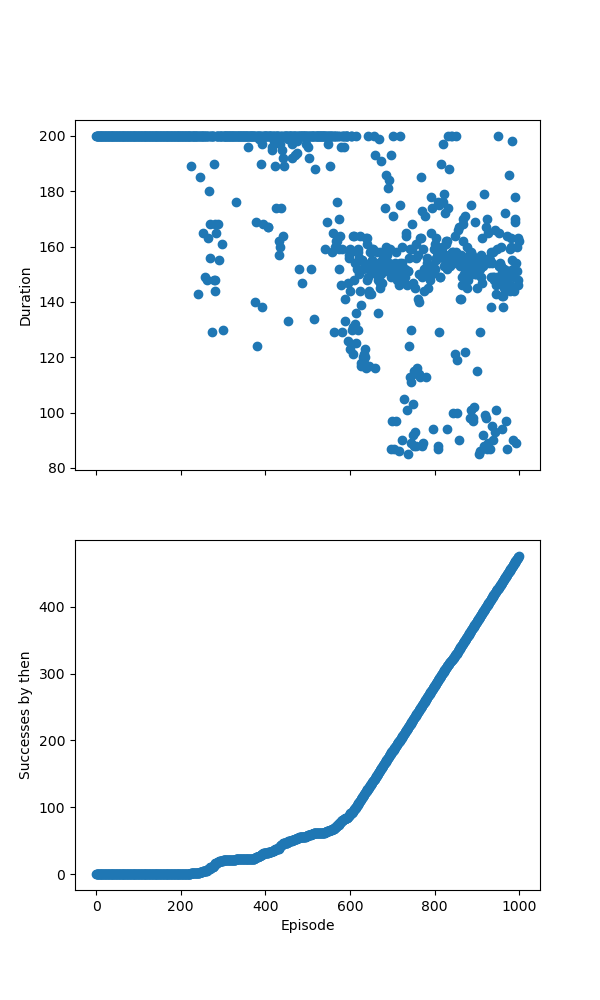
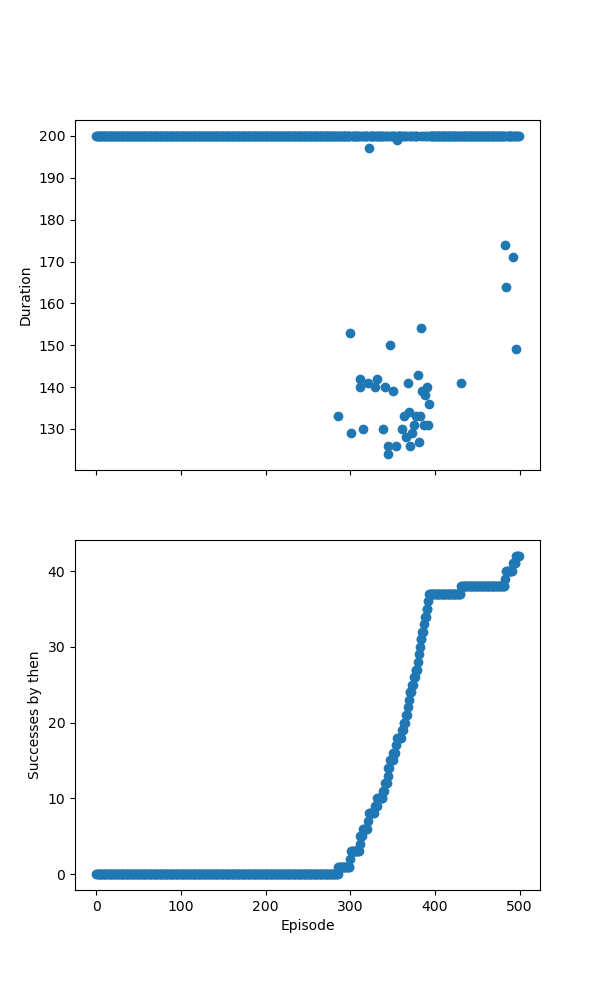
Put on pause the use of RND reward for the buffer.

diff --git a/code/agents.py b/code/agents.py
@@ -13,6 +13,7 @@ class Agent(ABC):
 
     @abstractmethod
     def select_action(self, state):
+        # no access to the environment as there will be no illegal actions
         pass
 
     @abstractmethod
@@ -23,20 +24,17 @@ class Agent(ABC):
     def run_episode( self, env ):
         pass
 
-    def init_actions(self):
-        return [0,1,2] # we can move left, stay or move right
-
+    actions = [0,1,2] # we can move left, stay or move right (same across all agents)
+    full_ep_len = 200
 
 class RandomAgent(Agent):
     def __init__(self):
-        self.actions = self.init_actions()
         pass
 
     def observe(self, state, action, next_state, reward):
         pass
 
     def select_action(self, state): 
-        # no access to the environment as there will be no illegal actions
         return random.choice( self.actions )
 
     def update(self):
@@ -59,30 +57,27 @@ class RandomAgent(Agent):
 
 
 class DQNAgent(Agent) :
-    def __init__(self, epsilon=0.9, gamma=0.99, buffer_len=10000, batch_size=64, optimizer='adam', heuristic=False, pre_train_steps=0):
-        self.actions = self.init_actions()
-
-        self.eps_start = epsilon # will then decay exponentially to reach 0.05
+    def __init__(self, epsilon=0.9, gamma=0.99, buffer_len=50, batch_size=64, pre_train_steps=0):
+        self.eps_start = epsilon # will then decay exponentially to eps_end
         self.eps_end = 0.05 # asymptotic value for epsilon
-        self.eps_tau = 20000 # characteristic time for the decay
+        self.eps_tau = 100*self.full_ep_len # characteristic time for the decay
 
         self.gamma = gamma
-        self.buffer = ReplayBuffer(buffer_len)
+        self.buffer = ReplayBuffer(buffer_len*self.full_ep_len) # buffel_len in full episodes
         self.batch_size = batch_size
         self.iter = 0
 
         self.ep_loss = 0. # loss for the current episode
         self.ep_env_reward = 0. # reward for the current episode 
         self.ep_aux_reward = 0. # reward for the current episode 
-        self.heuristic = heuristic
 
         self.Qs = MLP( 2, len(self.actions) )
         self.target_Qs = MLP( 2, len(self.actions) )
         self.optimizer = torch.optim.Adam(self.Qs.parameters(), lr=1e-3)
         self.target_Qs.eval()
         self.target_Qs_update_freq = 2000 # frequency to update target (in GD steps)
-        self.pre_train_steps = pre_train_steps # number of batches on which to 
-        # train the RND network before starting the DQN training
+        self.pre_train_steps = pre_train_steps # number of GD steps on which to 
+        # train the auxiliary reward before starting the DQN training
     
     @abstractmethod
     def float_auxiliar_r(self, state, next_state):
@@ -140,7 +135,7 @@ class DQNAgent(Agent) :
         batch : mini-batch over which gradient is estimated
         '''
         target = batch[:,3] + self.gamma * torch.max( self.target_Qs(batch[:,4:]), dim=1 ).values
-        actions = batch[:,2].to( torch.int64 ) # to 
+        actions = batch[:,2].to( torch.int64 ) # to use as index 
         if huber:
             return self.huber_loss( self.Qs(batch[:,0:2])[range(self.batch_size),actions], target )
         return torch.mean( ( target - self.Qs(batch[:,0:2])[range(self.batch_size),actions] ) ** 2 )
@@ -165,8 +160,7 @@ class DQNAgent(Agent) :
         self.sub_update( batch )
 
         # train the Q-network once the RND network is good enough
-        if self.iter > self.buffer.len + self.pre_train_steps:
-            #batch_ = self.buffer.new_batch( self.batch_size )
+        if self.iter > self.buffer.len + self.pre_train_steps + 1:
             self.Qs.train()
             loss = self.loss_fn( batch )
             self.ep_loss += loss.item()
@@ -202,7 +196,7 @@ class DQNAgent(Agent) :
             self.observe(state, action, next_state, reward)
             if done and self.iter > self.buffer.len:
                 ep_loss, ep_env_reward, ep_aux_reward = self.update( done=done )
-                #ep_aux_reward += 100. # reward for reaching the goal, not added by 
+                ep_aux_reward += 100. # reward for reaching the goal, not added by 
             else : 
                 self.update( done=done )
 
@@ -211,7 +205,7 @@ class DQNAgent(Agent) :
         return count, ep_env_reward/count, ep_aux_reward/count, ep_loss # duration, normalised cumulated reward, loss
 
 class DQNAgentHeuristic(DQNAgent):
-    def __init__(self, degree=3, frac=1.0-1, epsilon=0.9, gamma=0.99, buffer_len=10000, batch_size=64, pre_train_steps=0):
+    def __init__(self, degree=3, frac=1.0-1, epsilon=0.9, gamma=0.99, buffer_len=50, batch_size=64, pre_train_steps=0):
         super().__init__(epsilon, gamma, buffer_len, batch_size, pre_train_steps)
         self.frac = frac
         self.degree = degree
@@ -238,7 +232,7 @@ class DQNAgentHeuristic(DQNAgent):
         return self.frac * a * ( (x-x_start) ** self.degree ) * is_on_right + (1-is_on_right) * 0. # if the agent is on the left, the reward is 0
 
 class DQNAgentRND(DQNAgent) :
-    def __init__(self, reward_factor=1.0, epsilon=0.9, gamma=0.99, buffer_len=10000, batch_size=64, pre_train_steps=1000):
+    def __init__(self, reward_factor=1.0, epsilon=0.9, gamma=0.99, buffer_len=50, batch_size=64, pre_train_steps=1000):
         super().__init__(epsilon, gamma, buffer_len, batch_size, pre_train_steps=pre_train_steps)
         self.RND = MLP( 2, 1 )
         self.RND_optimizer = torch.optim.Adam(self.RND.parameters(), lr=1e-3)
@@ -255,36 +249,27 @@ class DQNAgentRND(DQNAgent) :
         buffer and use them to initialise the reward mean and variance. We then also add the corresponding
         auxiliary rewards to the buffer (this makes sense right ??).
         '''
+        if self.train_index == self.pre_train_steps:
+            self.RND.eval()
+            buffer_reward = ( self.RND(self.buffer.values[:,4:]) - \
+                        self.RND_target(self.buffer.values[:,4:]) ) ** 2
+            self.reward_mean = torch.mean( buffer_reward )
+            self.reward_var = torch.var( buffer_reward ) 
+            
+            # the goal of this part was to add the auxiliary rewards to the buffer so 
+            # that the agent can learn from them. However, this led to an error.
+            # norm_reward = ( buffer_reward - self.reward_mean ) / torch.sqrt(self.reward_var)
+            # self.buffer.values[:,3] = self.buffer.values[:,3] + self.reward_factor * torch.clamp( norm_reward, -5, 5 ).reshape(-1)
+            # line above causes error as when calling backward(), the autodiff will notice that the variable changed value (as batch will have changed through the buffer)
+            #self.train_index += 1
+            #return
+
         self.RND.train()
         RND_loss = torch.mean( ( self.RND_target(batch[:,4:]) - self.RND(batch[:,4:]) ) **2 )
-        print('foo')
         RND_loss.backward()
         self.RND_optimizer.step()
         self.RND_optimizer.zero_grad()
         self.train_index += 1
-        # the error I have is usually due to calling backward() multiple times on the same graph
-        # here can't find the second call to backward() as it is not the one associated to the Q-network (tested it, we don't enter the if)
-
-        print(self.train_index)
-        if self.train_index == self.pre_train_steps:
-            self.RND.eval()
-            buffer_values = self.buffer.values
-            buffer_reward = ( self.RND(buffer_values[:,4:]) - \
-                        self.RND_target(buffer_values[:,4:]) ) ** 2
-            #buffer_reward = ( self.RND(self.buffer.values[:,4:]) - \
-            #            self.RND_target(self.buffer.values[:,4:]) ) ** 2
-            self.reward_mean = torch.mean( buffer_reward )
-            self.reward_var = torch.var( buffer_reward ) 
-            norm_reward = ( buffer_reward - self.reward_mean ) / torch.sqrt(self.reward_var)
-            # clamp the reward to avoid numerical issues : between -5 and 5
-            print('hey')
-            temp = buffer_values[:,3] + self.reward_factor * torch.clamp( norm_reward, -5, 5 ).reshape(-1)
-            
-            self.buffer.values[:,3] = temp.clone() # this modifies the batch, is this problematic ??
-            #self.buffer.values[:,3] += self.reward_factor * torch.clamp( norm_reward, -5, 5 ).reshape(-1)
-
-
-
 
     def float_auxiliar_r(self, state, next_state):
         if self.train_index < self.pre_train_steps:
@@ -292,9 +277,10 @@ class DQNAgentRND(DQNAgent) :
         next_state_tensor = torch.tensor(next_state)
         self.RND.eval()
         reward = ( self.RND(next_state_tensor) - self.RND_target(next_state_tensor) ) ** 2
-        self.reward_mean = (self.reward_mean * self.train_index + reward) / (self.train_index + 1)
-        self.reward_var = (self.reward_var * self.train_index + (reward - self.reward_mean) ** 2) / (self.train_index + 1)
-        norm_reward = ( reward - self.reward_mean ) / torch.sqrt(self.reward_var)
+        norm_reward = ( reward - self.reward_mean ) / np.torch(self.reward_var)
+        self.reward_mean = (self.reward_mean * self.train_index + reward.item()) / (self.train_index + 1)
+        self.reward_var = (self.reward_var * self.train_index + (reward.item() - self.reward_mean) ** 2) \
+                            / (self.train_index + 1)
         return self.reward_factor * torch.clamp( norm_reward, -5, 5 )
 
 

diff --git a/code/test.py b/code/test.py
@@ -1,38 +1,29 @@
 import torch
-import numpy as np
-import matplotlib.pyplot as plt
-from abc import ABC, abstractmethod
+from torch.autograd import Variable
 
-class Cat(ABC):
-    def __init__(self):
+class person : 
+
+    def __init__(self,name) -> None:
+        self.name = name
         pass
+    age = 10
 
-    @abstractmethod
-    def say_hello(self, name):
-        pass
-
-class Kitten(Cat):
-    def __init__(self):
-        super().__init__()
-
-    def bye(self):
-        print('bye')
-        return    
-    
-y = Kitten()
-y.bye( )
+jon = person("jon")
+print(jon.name, jon.age)
 
 
+'''
 def auxiliar_r( self, batch, n, frac ):
-    '''
-    Return the auxiliary reward for the Q-network : the reward grows as x^n as the agent gets closer to the goal. It is equal to 100 (the reward for reaching the goal) when the agent is at the goal.
-    batch : mini-batch over which the reward is computed
-    n : power of the polynomial
-    frac : fraction of the goal reward that is given to the agent
-    '''
+    
+    #Return the auxiliary reward for the Q-network : the reward grows as x^n as the agent gets closer to the goal. It is equal to 100 (the reward for reaching the goal) when the agent is at the goal.
+    #batch : mini-batch over which the reward is computed
+    #n : power of the polynomial
+    #frac : fraction of the goal reward that is given to the agent
+    
     max_reward = 100
     x_reward = 0.5
     x_start = -0.5
     a = max_reward / ( x_reward - x_start ) ** n
     is_on_right = batch[:,0] > x_start
     return frac * a * ( (batch[:,0]-x_start) ** n ) * is_on_right + torch.logical_not(is_on_right) * 0. # if the agent is on the left, the reward is 0
+'''

diff --git a/code/main.py b/code/main.py
@@ -6,16 +6,16 @@ import h5py as h5
 
 fig_dir = '../figs/'
 output_dir = '../output/'
-output_file = 'dqn_agent'
+output_file = 'dqn_rnd_agent'
 env = gym.make('MountainCar-v0')
 #env = gym.make('MountainCar-v0', render_mode='rgb_array')
 
 agent = agents.RandomAgent()
 #agent_dqn = agents.DQNAgentHeuristic( degree=3, frac=1.e-1 )
-agent_dqn = agents.DQNAgentRND( reward_factor=1.0 )
+agent_dqn = agents.DQNAgentRND( reward_factor=1.0, pre_train_steps=1000 )
 
 
-n_eps = 100
+n_eps = 1000
 sampling = n_eps // 20
 count = np.zeros(n_eps)
 norm_ep_env_reward = np.zeros(n_eps)

diff --git a/README.md b/README.md
@@ -14,6 +14,36 @@ Use `conda env export > requirements.yml` to update the requirements and `conda 
 * we only start training once the replay buffer is full 
 * implementation of target net was done with help of chat gpt
 
+## First steps 
+### Episode visualisation
+Lorem ipsum ...
+
+### Episode duration 
+To analyse the performance of the agent, one can analyse the duration of the episodes as a function of time. Indeed, if the agent learns the task, the duration of the episodes should have a decreasing trend in time. This because at the start the agent doesn't know the task, and so the episode is truncated at `full_ep_len=200`, while as it learns it, it should manage to finish the task before reaching the step limit. 
+
+Running the the agent for 100 episodes, we obtain fig ... . Looking at it, it is clear that the agent does not lean the task, as all the durations coincide with the truncation time. 
+
+## DQN
+### Implementation details 
+
+### No auxiliary reward
+Running 100 episodes just as for the random agent and computing their duration along with the cumulated reward per episode, we get fig ... . Looking at it we see that the behaviour is the same as for the random agent, i.e. the agent does not learn the task.
+
+This is due to the sparsity of the reward. 
+
+### Heuristic reward function 
+To alleviate the sparsity of the reward, we introduce a heuristic reward function which can be used as auxiliary reward for the DQN agent. Intuitively, we want this function to make the agent learn it should reach the top of the hill, which is placed on the right of the environnement. We therefore decide to take a heuristic function that assigns a reward if the agent is on the right of its (average) starting point. To make sure the agent tries and reach higher and higher on the hill, we decide to make this function be a growing one with the position. A simple and versatile proposal is to take 
+$$
+f(x) = A\mathbb I[x>\bar x_0]x^n
+$$
+for $A>0$ some constant and a given $n\in\mathbb N^\star$. In practice we most often take $n=3$ and $A=0.1$.  
+
+#### Auxiliary reward scaling
+For the auxiliary reward to make sense it should be sufficiently large for it to 
+reward, with relative scale)
+  * how much info should be given ? Is goal to give minimal amount or is it to give as much as possible (to then use as baseline with no sparse reward) ? 
+
+
 ## Open questions 
 * how to deal with terminal states ? (hint from pdf)
   * currently : we stop as soon as s(t+1) is terminal, so we never play from terminal 
@@ -22,9 +52,7 @@ Use `conda env export > requirements.yml` to update the requirements and `conda 
 *  "run for 1000 episodes and report its loss and average cumulative reward per episode"
    *  loss per episode over the samples ? (to track reduction ?)
    *  average cumulative reward per episode -> as in scalar : the average over the episodes ? (to answer "do we on avg. get to the 100 ?") -> more like normalised cumulative (over episode) reward 
-* heuristics : they say location wise (can use growing function towards reward, with relative scale)
-  * how much info should be given ? Is goal to give minimal amount or is it to give as much as possible (to then use as baseline with no sparse reward) ?
-  * could in principle use criterion based on velocity, right ? might be harder to scale ? (as no real clue of characteristic velocities)
+
 * question about normalisation 
   * state-normalisation
     * normalised deviance from the mean quantifies deviance (so param of interest, as should affect reward)
